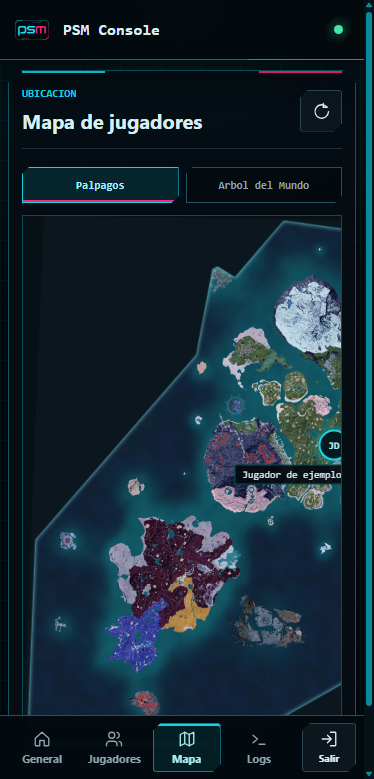
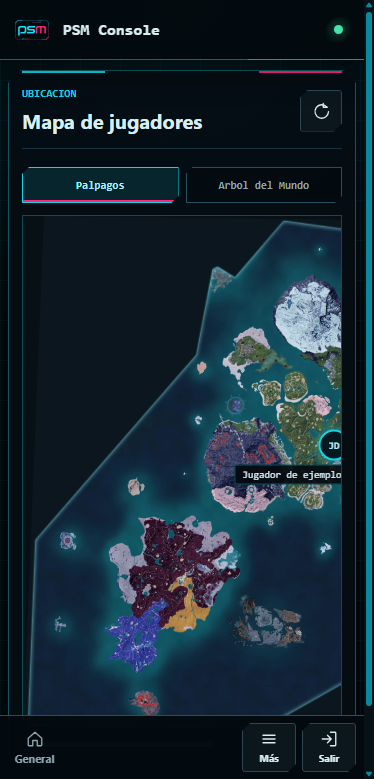
fix(remote-api): fija cabecera y compacta menú móvil

diff --git a/scripts/capture-remote-api-screenshots.js b/scripts/capture-remote-api-screenshots.js
@@ -378,17 +378,28 @@ async function assertWebView(window, view) {
 }
 
 async function assertSidebarRemainsFixed(window) {
-  const initialTop = await window.webContents.executeJavaScript(`
-    document.querySelector('.sidebar')?.getBoundingClientRect().top
+  const initial = await window.webContents.executeJavaScript(`
+    ({
+      sidebar: document.querySelector('.sidebar')?.getBoundingClientRect().top,
+      topbar: document.querySelector('.topbar')?.getBoundingClientRect().top
+    })
   `);
   await window.webContents.executeJavaScript(`window.scrollTo(0, document.documentElement.scrollHeight)`);
   await wait(250);
-  const finalTop = await window.webContents.executeJavaScript(`
-    document.querySelector('.sidebar')?.getBoundingClientRect().top
+  const final = await window.webContents.executeJavaScript(`
+    ({
+      sidebar: document.querySelector('.sidebar')?.getBoundingClientRect().top,
+      topbar: document.querySelector('.topbar')?.getBoundingClientRect().top
+    })
   `);
   await window.webContents.executeJavaScript(`window.scrollTo(0, 0)`);
-  if (typeof initialTop !== 'number' || Math.abs(finalTop - initialTop) > 1) {
-    throw new Error(`La barra lateral se desplazo con el contenido: ${String(initialTop)} -> ${String(finalTop)}`);
+  if (
+    typeof initial.sidebar !== 'number' ||
+    typeof initial.topbar !== 'number' ||
+    Math.abs(final.sidebar - initial.sidebar) > 1 ||
+    Math.abs(final.topbar - initial.topbar) > 1
+  ) {
+    throw new Error(`La navegación fija se desplazo con el contenido: ${JSON.stringify({ initial, final })}`);
   }
 }
 
@@ -459,9 +470,28 @@ async function main() {
     await assertWebView(window, 'map');
     await capture(window, 'api-web-mapa-movil.png', 'map');
 
+    const mobileMenuState = await window.webContents.executeJavaScript(`
+      (() => {
+        document.querySelector('#mobile-nav-toggle')?.click();
+        return {
+          expanded: document.querySelector('.sidebar')?.classList.contains('is-mobile-menu-open'),
+          moreVisible: getComputedStyle(document.querySelector('.nav-button[data-view="logs"]')).display !== 'none'
+        };
+      })()
+    `);
+    if (!mobileMenuState.expanded || !mobileMenuState.moreVisible) {
+      throw new Error(`El menú móvil no mostró las secciones adicionales: ${JSON.stringify(mobileMenuState)}`);
+    }
+
     await selectWebView(window, 'players');
     await wait(450);
     await assertWebView(window, 'players');
+    const mobileMenuClosed = await window.webContents.executeJavaScript(`
+      !document.querySelector('.sidebar')?.classList.contains('is-mobile-menu-open')
+    `);
+    if (!mobileMenuClosed) {
+      throw new Error('El menú móvil quedó abierto después de seleccionar una vista');
+    }
     await capture(window, 'api-web-cliente-movil.png', 'players');
   } finally {
     window.destroy();

diff --git a/resources/remote-api-web/ui.js b/resources/remote-api-web/ui.js
@@ -147,7 +147,7 @@
       element.hidden = access.profile !== 'ADMIN';
     });
     var visibleNavigation = Array.from(document.querySelectorAll('.nav-button')).filter(function (button) {
-      return !button.hidden;
+      return Boolean(button.dataset.view) && !button.hidden;
     });
     var activeNavigation = document.querySelector('.nav-button[data-view="' + activeView + '"]');
     if ((!activeNavigation || activeNavigation.hidden) && visibleNavigation[0]) {
@@ -1281,6 +1281,7 @@
     if (!view) {
       return;
     }
+    closeMobileNavigation();
     activeView = view;
     document.querySelectorAll('.nav-button').forEach(function (button) {
       button.classList.toggle('active', button.dataset.view === view);
@@ -1289,6 +1290,15 @@
       section.hidden = section.dataset.contentView !== view;
     });
     void refreshVisibleView(false);
+  }
+
+  function closeMobileNavigation() {
+    var sidebar = document.querySelector('.sidebar');
+    var toggle = document.getElementById('mobile-nav-toggle');
+    sidebar.classList.remove('is-mobile-menu-open');
+    toggle.setAttribute('aria-expanded', 'false');
+    toggle.setAttribute('aria-label', 'Abrir más secciones');
+    toggle.title = 'Más secciones';
   }
 
   async function executeServerAction(action) {
@@ -1362,8 +1372,17 @@
   });
   document.querySelectorAll('.nav-button').forEach(function (button) {
     button.addEventListener('click', function () {
-      selectView(button.dataset.view);
+      if (button.dataset.view) {
+        selectView(button.dataset.view);
+      }
     });
+  });
+  document.getElementById('mobile-nav-toggle').addEventListener('click', function () {
+    var sidebar = document.querySelector('.sidebar');
+    var open = sidebar.classList.toggle('is-mobile-menu-open');
+    this.setAttribute('aria-expanded', String(open));
+    this.setAttribute('aria-label', open ? 'Cerrar más secciones' : 'Abrir más secciones');
+    this.title = open ? 'Cerrar más secciones' : 'Más secciones';
   });
   document.querySelectorAll('[data-refresh]').forEach(function (button) {
     button.addEventListener('click', function () {

diff --git a/resources/remote-api-web/ui.css b/resources/remote-api-web/ui.css
@@ -74,12 +74,15 @@ svg {
 .app-shell {
   min-height: 100vh;
   min-height: 100dvh;
+  padding-top: 69px;
 }
 
 .topbar {
-  position: sticky;
-  z-index: 20;
+  position: fixed;
+  z-index: 30;
   top: 0;
+  right: 0;
+  left: 0;
   display: flex;
   min-height: 68px;
   align-items: center;
@@ -500,6 +503,10 @@ input:focus {
 }
 
 .logout-short {
+  display: none;
+}
+
+.mobile-nav-toggle {
   display: none;
 }
 
@@ -1361,6 +1368,10 @@ input:focus {
 }
 
 @media (max-width: 820px) {
+  .app-shell {
+    padding-top: 60px;
+  }
+
   .topbar {
     min-height: 60px;
     padding-block: 7px;
@@ -1403,6 +1414,10 @@ input:focus {
     flex: 1 1 auto;
     grid-template-columns: repeat(4, minmax(0, 1fr));
     gap: 4px;
+  }
+
+  .sidebar nav .nav-button:nth-child(n + 4) {
+    display: none;
   }
 
   .nav-button {
@@ -1476,6 +1491,48 @@ input:focus {
   .logs-console {
     height: calc(100dvh - 232px);
     min-height: 300px;
+  }
+
+  .mobile-nav-toggle {
+    display: flex;
+    width: 54px;
+    min-height: 49px;
+    flex: 0 0 54px;
+    flex-direction: column;
+    justify-content: center;
+    gap: 3px;
+    padding: 4px;
+    font-size: 10px;
+  }
+
+  .mobile-nav-toggle span {
+    display: inline;
+  }
+
+  .sidebar.is-mobile-menu-open {
+    height: min(calc(100dvh - 60px), 610px);
+    flex-wrap: wrap;
+    align-content: flex-end;
+  }
+
+  .sidebar.is-mobile-menu-open nav {
+    order: -1;
+    width: 100%;
+    max-height: calc(100dvh - 180px);
+    flex: 0 0 100%;
+    grid-template-columns: repeat(2, minmax(0, 1fr));
+    overflow-y: auto;
+  }
+
+  .sidebar.is-mobile-menu-open nav .nav-button {
+    display: flex;
+    min-height: 46px;
+    flex-direction: row;
+    justify-content: flex-start;
+    gap: 8px;
+    padding: 8px 11px;
+    font-size: 12px;
+    text-align: left;
   }
 
   .content-view--map {

diff --git a/resources/remote-api-web/index.html b/resources/remote-api-web/index.html
@@ -21,6 +21,7 @@
       <symbol id="icon-restart" viewBox="0 0 24 24"><path d="M20 11a8 8 0 1 0-2.3 5.7"/><path d="M20 4v7h-7"/></symbol>
       <symbol id="icon-stop" viewBox="0 0 24 24"><rect x="5" y="5" width="14" height="14" rx="1"/></symbol>
       <symbol id="icon-logout" viewBox="0 0 24 24"><path d="M10 17l5-5-5-5M15 12H3"/><path d="M14 3h6a1 1 0 0 1 1 1v16a1 1 0 0 1-1 1h-6"/></symbol>
+      <symbol id="icon-menu" viewBox="0 0 24 24"><path d="M4 7h16M4 12h16M4 17h16"/></symbol>
       <symbol id="icon-arrow" viewBox="0 0 24 24"><path d="M5 12h14M13 6l6 6-6 6"/></symbol>
     </svg>
 
@@ -106,6 +107,9 @@
                 <svg aria-hidden="true"><use href="#icon-home"></use></svg><span>Configuracion</span>
               </button>
             </nav>
+            <button id="mobile-nav-toggle" class="icon-button mobile-nav-toggle" type="button" aria-label="Abrir más secciones" title="Más secciones" aria-expanded="false">
+              <svg aria-hidden="true"><use href="#icon-menu"></use></svg><span>Más</span>
+            </button>
             <button id="logout-button" class="secondary-button logout-button" type="button">
               <svg aria-hidden="true"><use href="#icon-logout"></use></svg>
               <span class="logout-label">Cerrar sesión</span>

diff --git a/src/shared/constants/app-info.ts b/src/shared/constants/app-info.ts
@@ -6,7 +6,7 @@ export const APP_INFO = {
   appId: 'com.palcm.servermanager',
   authorAlias: '>GR477<',
   authorName: 'Alexis Joel Dávila',
-  version: '0.19.4',
+  version: '0.19.5',
   channel: 'Dev'
 } as const;
 
